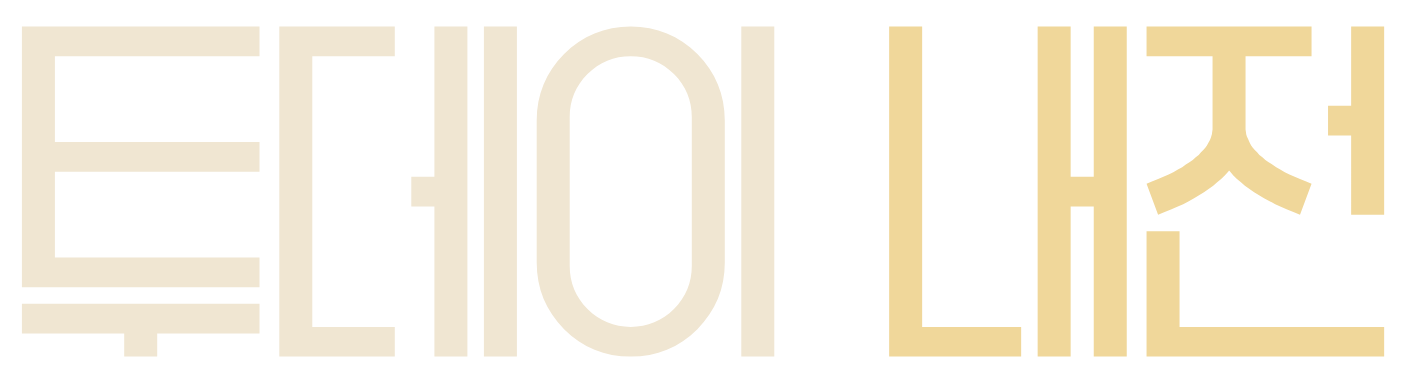
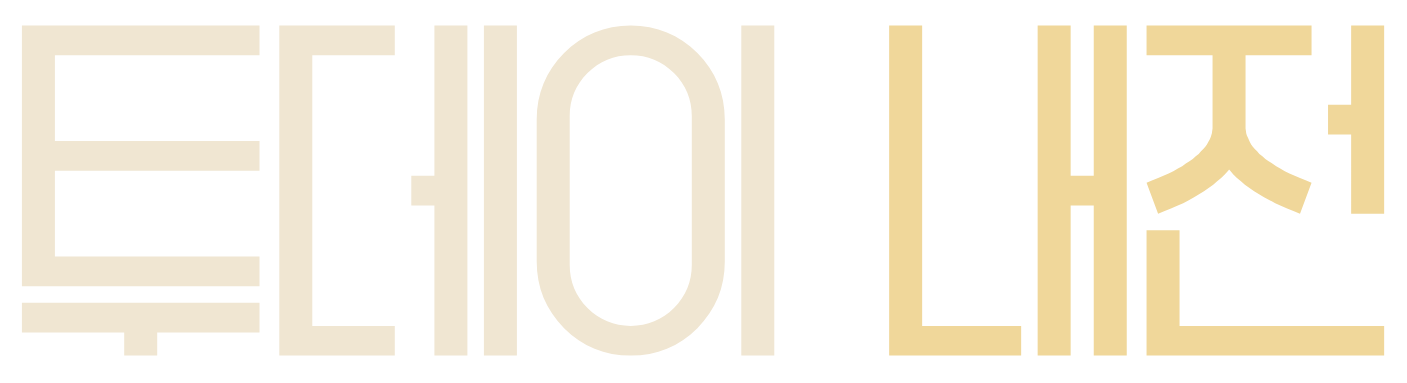
v0.1.179: 리틱체 제목 그림을 홈 화면, 홈페이지 큰 제목, 팟지 소개 윗줄에도

diff --git a/docs/index.html b/docs/index.html
@@ -103,6 +103,8 @@ button { font:inherit; color:inherit; background:none; border:0; cursor:pointer;
 .hero .copy { position:absolute; left:0; right:0; bottom:clamp(28px, 6vh, 64px); }
 .hero h1 { font-size:clamp(44px, 8.4vw, 124px); line-height:1.02; font-weight:850; letter-spacing:-0.055em; text-shadow:0 2px 24px rgba(0,0,0,.35); }
 .hero h1 .g { color:var(--gold); }
+/* 큰 제목 = 리틱체(REATIC Narrow Bold)로 그린 그림(글꼴 파일은 재배포 금지라 그림만 · tools/title-img.cjs) · 높이 1.16em = 글자 크기 그대로 · 좁은 화면에선 폭에 맞춰 줄어듦 */
+.hero h1 img { display:block; width:min(var(--w), 100%); height:auto; filter:drop-shadow(0 2px 14px rgba(0,0,0,.35)); }
 .ln { display:block; overflow:hidden; padding-bottom:0.04em; }
 .ln > span { display:inline-block; }
 .js .ln > span { transform:translateY(105%); transition:transform .9s var(--ease); }
@@ -375,7 +377,7 @@ footer p + p { margin-top:6px; }
     <div class="hero-tag"><span>실제 내전 장면 · 자야 트리플킬</span></div>
     <div class="copy">
       <div class="wrap">
-        <h1><span class="ln"><span>오늘 모인 사람끼리,</span></span><span class="ln"><span>롤 <span class="g">내전</span> 한 판.</span></span></h1>
+        <h1><span class="ln"><span><img src="img/title-1.png" alt="오늘 모인 사람끼리," style="--w:7.05em"></span></span><span class="ln"><span><img src="img/title-2.png" alt="롤 내전 한 판." style="--w:4.99em"></span></span></h1>
         <div class="hero-row">
           <p>방 하나 만들고 팀만 나누면 준비가 끝납니다. 승패, MVP, 오늘 순위는 앱이 정리하고, 판이 끝나면 위 영상 같은 하이라이트도 만들어 드립니다.</p>
           <div class="dl-box">

diff --git a/potg/potg.js b/potg/potg.js
@@ -105,7 +105,9 @@ async function showIntro(my, c, o) {
   const sp = el('pg-splash'); sp.getAnimations().forEach(a => a.cancel()); sp.style.opacity = '0';
   if (c.splash) { if (sp.getAttribute('src') !== c.splash) sp.src = c.splash; } else sp.removeAttribute('src');
   const en = intro.querySelector('.pg-intro-en'), hero = intro.querySelector('.pg-hero'), lab = el('pg-label'), slash = intro.querySelector('.pg-slash');
-  en.innerHTML = `<i></i>${esc(o.eyebrow)}`;
+  // v0.1.179 윗줄 영문 = 리틱체 그림(PLAY OF THE GAME · UNSUNG HERO — tools/title-img.cjs) · 뒤에 붙는 한글(「· 숨은 영웅」)은 글자 그대로
+  const eb = String(o.eyebrow || ''), ebImg = eb.startsWith('PLAY OF THE GAME') ? ['potg-en', 'PLAY OF THE GAME'] : eb.startsWith('UNSUNG HERO') ? ['unsung-en', 'UNSUNG HERO'] : null;
+  en.innerHTML = ebImg ? `<i></i><img src="../assets/title/${ebImg[0]}.png" alt="${ebImg[1]}">${esc(eb.slice(ebImg[1].length))}` : `<i></i>${esc(eb)}`;
   [en, hero, lab, slash, el('pg-iflash')].forEach(n => n.getAnimations().forEach(a => a.cancel()));
   const k = o.dur / 3200;   // 짧은 소개(숨은 영웅)는 같은 순서로 빠르게
   if (c.splash) go(sp, [{ opacity: 0, transform: 'scale(1.14)', filter: 'brightness(1.6) blur(3px)' }, { opacity: 1, transform: 'scale(1.06)', filter: 'brightness(1) blur(0)', offset: 0.18 }, { opacity: 1, transform: 'scale(1)', filter: 'brightness(1) blur(0)' }], { duration: o.dur + 300, easing: 'cubic-bezier(.2,.7,.3,1)' });   // 천천히 다가오는 줌(한 번만)

diff --git a/potg/potg.css b/potg/potg.css
@@ -23,6 +23,7 @@ html, body { height:100%; background:var(--bg-0); color:var(--ink); overflow:hid
 .pg-ibody { position:absolute; left:6%; right:6%; bottom:9%; display:flex; flex-direction:column; align-items:flex-start; gap:10px; min-width:0; }
 .pg-intro-en { display:flex; align-items:center; gap:10px; font-family:var(--f-num); font-weight:700; font-size:clamp(13px, 1.7vw, 17px); letter-spacing:0.32em; color:var(--gold-hi); opacity:0; }
 .pg-intro-en i { width:34px; height:2px; background:var(--gold); }
+.pg-intro-en img { display:block; height:1.5em; width:auto; margin-right:-.2em; }
 .pg-hero { display:flex; align-items:center; gap:14px; min-width:0; max-width:100%; opacity:0; }
 .pg-av { flex:none; width:64px; height:64px; border:2px solid var(--tc); background:var(--bg-2); overflow:hidden; }
 .pg-av img { width:100%; height:100%; object-fit:cover; display:block; }

diff --git a/home/home.html b/home/home.html
@@ -32,7 +32,7 @@
     <svg class="mk" viewBox="0 0 24 24" aria-hidden="true"><path d="M12 1.5 21.1 6.75v10.5L12 22.5 2.9 17.25V6.75Z" fill="none" stroke="currentColor" stroke-width="1.3"/><path d="M12 6.5 16.8 9.25v5.5L12 17.5 7.2 14.75v-5.5Z" fill="currentColor" opacity=".92"/></svg>
     <div class="tt">
       <span class="tt-en">TODAY NAEJEON</span>
-      <h1>투데이 내전</h1>
+      <h1><img class="tt-img" src="../assets/title/title-ink.png" alt="투데이 내전"></h1>   <!-- v0.1.179 리틱체 그림(tools/title-img.cjs) -->
     </div>
     <div class="go" id="go">GAME START</div>
   </section>

diff --git a/potg/potg.html b/potg/potg.html
@@ -19,7 +19,7 @@
       <div class="pg-shade"></div>
       <div class="pg-slash"></div>
       <div class="pg-ibody">
-        <div class="pg-intro-en"><i></i>PLAY OF THE GAME</div>
+        <div class="pg-intro-en"><i></i><img src="../assets/title/potg-en.png" alt="PLAY OF THE GAME"></div>
         <div class="pg-hero">
           <span id="pg-av" class="pg-av"></span>
           <div class="pg-who"><b id="pg-name" class="pg-name"></b><span id="pg-sub" class="pg-sub"></span></div>

diff --git a/home/home.css b/home/home.css
@@ -13,6 +13,7 @@ body { display:flex; flex-direction:column; border:1px solid var(--line-2); }
 .tt { display:flex; flex-direction:column; gap:2px; }
 .tt-en { font-family:var(--f-num); font-size:13px; font-weight:700; letter-spacing:.3em; color:var(--gold); }
 .tt h1 { font-size:34px; font-weight:900; letter-spacing:-0.04em; line-height:1.05; }
+.tt-img { display:block; height:44px; width:auto; margin:3px 0 0 -2px; }
 .go { display:none; }
 
 /* 본문 */

diff --git a/CLAUDE.md b/CLAUDE.md
@@ -7,7 +7,7 @@
 - 배포(옛): 사이트(sohada2.github.io/aram) **최하단**에 「투데이 내전 다운로드」 버튼(기존 「내전 오버레이 다운로드」 옆)
 - 출발점: aram-overlay v0.1.55 코드에서 도킹·창·트레이·자동 업데이트·내장 브릿지·팀짜기 알고리즘만 가져오고, 복권·대장간·상점·가챠·패스·프로필·LP·막고라·아이템 페이즈·숨은 라이브 계정은 전부 걷어냄
 
-## 🔄 다른 PC에서 이어받기 (2026-11-12 · v0.1.178)
+## 🔄 다른 PC에서 이어받기 (2026-11-12 · v0.1.179)
 1. **`git pull` 먼저** — 여러 PC가 main에 직접 푸시 + **aramgg 봇이 매일 한국 4:30 main에 커밋**(`docs/data/aramgg`) → 안 받고 푸시하면 거절됨.
 2. `npm install` · ⚠ 셸에 `ELECTRON_RUN_AS_NODE=1`이 있으면 `env -u ELECTRON_RUN_AS_NODE ./node_modules/electron/dist/electron.exe .` · 테스트는 창 숨김(`TN_HIDDEN=1`, 아래 「실행 / 배포」).
 3. **관리자 도구(서버 규칙·시험 데이터 정리·사용량 조회)** = `npm i -g firebase-tools` → `firebase login`(사장님 계정 shm2644) → `node tools/gapi.cjs <메서드> <URL> [본문]` · 규칙 확인 = `node tools/rules-test.cjs`(70건 · 인증 없는 요청 허용/차단 + 끝나면 정리). ⚠ 이 PC 임시 폴더(scratchpad) 도구는 다른 PC에 없음 — 필요한 건 `tools/`에 있음. 집 PC(`C:\Users\so`)도 2026-11-04에 설치·로그인함(VS Code 확장에선 `firebase login`이 브라우저를 못 띄워 → 나온 주소를 사장님이 열고 받은 코드로 `firebase login <코드>`).
@@ -200,6 +200,7 @@ npm start      # ⚠ 이 PC 셸은 ELECTRON_RUN_AS_NODE=1 → env -u ELECTRON
 - **v0.1.97 (2026-11-02)**: 🛡 보안 강화 — 위 「서버 규칙」 v0.1.97 항목(통째 지우기 막음·지난 결과 고정 sv·모양/크기 검사·옛 칸 닫음·목록 밖 방 정리·중계 IP 제한). 앱 변경 = `withSv`(새 경기 기록에 서버 시각) + `roomGc` 목록 밖 방 정리. ⚠ 규칙상 v0.1.96 이하 앱은 경기 기록을 못 만듦(sv 없음) → 자동 업데이트 필수.
 - **v0.1.98 (2026-11-02)**: 🔐 익명 로그인 표식 — 위 「서버 규칙」 익명 로그인 항목. 규칙은 그대로 공개(1단계) · 2단계(auth != null)는 친구들 업데이트 뒤.
 - **v0.1.99 (2026-11-02)**: 🧹 조사용 기록 수집 끔 + 🔐 영상 중계에 로그인 표식 — 위 「서버 규칙」 v0.1.99 항목.
+- **v0.1.179 (2026-11-12)**: 🔤 **리틱체 제목 그림을 세 곳 더**(사장님: 같은 방식으로) — `tools/title-img.cjs`를 문구 목록(`ITEMS` · 저장할 곳·내용·글자색·강조색·크기·자간)으로 넓힘 → ① **앱 홈 화면 머리** 「투데이 내전」(`home.html` h1 안 `img.tt-img` 44px · title-ink.png) ② **홈페이지 큰 제목** 「오늘 모인 사람끼리, / 롤 내전 한 판.」(`docs/img/title-1.png`·`title-2.png` · `.hero h1 img { width:min(var(--w), 100%) }` — `--w` = 그림 폭 ÷ 높이 × 1.16em(도구가 출력)이라 글자 크기 그대로 · 좁은 화면에선 폭에 맞춰 줄어듦 · alt에 문구) ③ **팟지 소개 윗줄** 「PLAY OF THE GAME」·「UNSUNG HERO」(`assets/title/potg-en.png`·`unsung-en.png` · `showIntro`가 eyebrow 앞부분을 그림으로 · 뒤 한글 「· 숨은 영웅」은 글자 그대로). 그대로 둔 것 = 팟지 창 머리줄 작은 영문(13px)·홈페이지 머리 작은 이름(16px — 가는 획이라 작으면 안 읽힘)·큰 킬 자막(TRIPLE KILL 등 종류가 많고 색·기울임이 CSS). 확인 = 홈 화면 ui-shot 겹침·잘림 0 · 팟지 소개 캡처 · 홈페이지 1440·390 폭 캡처(가로 넘침 없음).
 - **v0.1.178 (2026-11-12)**: 🔤 **게임 시작 화면 제목 = 리틱체**(사장님이 새로 깐 글꼴 REATIC · 「제일 괜찮은 걸로 배치」) — ⚠ **리틱체 라이선스(글꼴 파일 안 name 표): 이미지·영상·인쇄물은 상업·비상업 자유 / 글꼴 파일 판매·임의 수정·가공·무단 재배포 금지** → 글꼴 파일은 리포·설치 파일에 **넣지 않고**(추려 넣기 = 수정이라 그것도 안 됨) 고정 문구만 **그림으로**: `tools/title-img.cjs`(이 PC에 깔린 `%LOCALAPPDATA%MicrosoftWindowsFontsREATIC-NarrowBold.otf`로 「투데이 내전」을 투명 PNG로 · 글자 330px) → `assets/title/title-ink.png`(전부 밝은 글자색 = 포스터) · `title-two.png`(「내전」만 밝은 금 = 제목 카드) → home `.lg-ko` 안 `img.lg-ti`(포스터 122px 높이 + 그림자 · 카드 108px). 견본 비교: Bold = 획이 가늘어 힘이 빠짐 · Wide Bold = 너무 넓음 · **Narrow Bold = 좁고 키가 커 포스터 느낌**(채택). 닉네임·날짜·숫자처럼 바뀌는 글자와 본문은 그대로 Pretendard·Barlow(리틱체로는 못 함). 다른 고정 제목(홈 화면·홈페이지·PLAY OF THE GAME)에 쓰려면 같은 도구에 문구를 더해 그림으로. 확인 = scratchpad fx/logo.cjs 지금/리틱체 2×2 영상(바탕화면 「게임 시작 제목 글꼴 비교」).
 - **v0.1.177 (2026-11-12)**: 🎬 **게임 시작 화면 = 글자 중심**(사장님: 합쳐진 뒤 나오는 로고·글 디벨롭 → 팀 명단은 게임이 켜지는 시간이 짧아 뺌 · 앱 아이콘 문장·육각 로고 변형(A~D·C1~C4)은 「도형 조합 같다」 → 로고 그림을 빼고 글자를 디자인으로 한 P1~P3 중 **P2·P3 선택**). 홈 창 logo 모드 = `#lg`(예전 `#hero` 로고는 logo 모드에서 숨김 · 평소 홈 화면은 그대로): **내전(팀이 짜인 판 · `homeView().match`) = 포스터 `body.lgp`**(뒤에 큰 윤곽 글자 「TODAY」 250px Barlow 기울임 · 앞에 「투데이 내전」 96px · 금색 날짜 · 「GAME n · START」 = 오늘 이 방 n번째 판 `_todayGames`(팀이 짜일 때 getToday로 셈 · 못 세면 숫자 없음)) / **그 밖(일반 판 등) = 제목 카드 `body.lgc`**(위아래 금색 선 + 마름모 사이 TODAY NAEJEON · 「투데이 **내전**」(내전만 밝은 금) · 날짜) · 둘 다 좌우 팀 빛(왼쪽 1팀 파랑 · 오른쪽 2팀 빨강 · 옅게) · 날짜 = `homeView().day`(새벽 6시 기준) → 「2026 . 11 . 12 THU」. 움직임(전부 한 번 · 번쩍임·흔들림·소리 없음) = 이음선 → 팀 빛 → 큰 윤곽 글자가 자간을 좁히며 자리 잡음 / 금색 선이 가운데서 벌어짐 → 제목 → 날짜 → GAME START 양옆 선. 로고 유지 시간(DOOR_MS+1700)은 그대로. ⚠ 밟은 함정: heredoc 안 템플릿에 쓴 정규식 `d`가 `d`로 빠져 날짜가 안 나옴 → `[0-9]`. 비교 영상 = scratchpad `fx/logo.cjs`(가상 시계) → 바탕화면 「게임 시작 화면 (왼쪽 지금 · 가운데 내전 포스터 · 오른쪽 일반 제목 카드)」. 확인 = door-sim boot-client(logo 모드 진입·창 좌표 그대로 · 시험 계정·기기 칸 지움). ⚠ 실기 미확인: 실제 내전에서 포스터·「GAME n」이 뜨는지. 버린 시안 = 바탕화면 「게임 시작 로고 후보」 그림들.
 - **v0.1.176 (2026-11-12)**: 🚪 **창 분리·합체 효과 다듬기**(사장님: 검토 → 비교 영상 보고 「진행」) — ① **문짝 틈 바탕 좌우 맞춤**: 왼쪽 창은 투명·오른쪽 창은 불투명(#010A13)이라 문짝(rotateY)이 기울 때 왼쪽만 틈으로 뒤 화면이 비침(재현 캡처로 확인) → 문짝이 도는 동안만 body 바탕을 같은 색으로(`tnDoorBg` · desktop/tip.js) ② **합체 단계 겹침**: 창이 다 모인 뒤 테두리 → 그 뒤 홈(홈까지 0.95초) → 창이 70% 모였을 때 지퍼 테두리(`ZIP_AT` · `zip {keep:true}` = 문짝 애니메이션을 안 끊음) · 홈 = `HOME_AT` DOOR_MS+150(0.67초) ③ **분리 짝 효과** `unseam`(`tnUnseamFx`): 갈라지는 동안 안쪽 가장자리 금빛 선이 옅어지고 위·아래 금빛 선이 바깥으로 걷힘 · v0.1.168(되돌림)과 달리 갈라지기 전 기다림 없음. `doorFx(act, extra)`가 `v2:true`를 실어 보냄. 비교 영상 도구 = scratchpad `fx/rec.cjs`+`stage.html`(화면 밖 창 하나에 가짜 바탕화면 + 왼쪽·오른쪽·홈을 iframe으로 올리고 main과 같은 곡선·시간표 · **가상 시계**(iframe setTimeout·웹 애니메이션을 프레임마다 맞춤 → 프레임 빠짐 없음 · `SLOW=3` = 3배 느리게) · `nodeIntegrationInSubFrames`로 iframe에도 가짜 api) → 바탕화면 「창 분리·합체 비교」. 확인 = door-sim boot-client 창 좌표 그대로·오류 없음(시험 계정·기기 칸 지움). ⚠ 실제 화면에서는 아직 못 봄.
